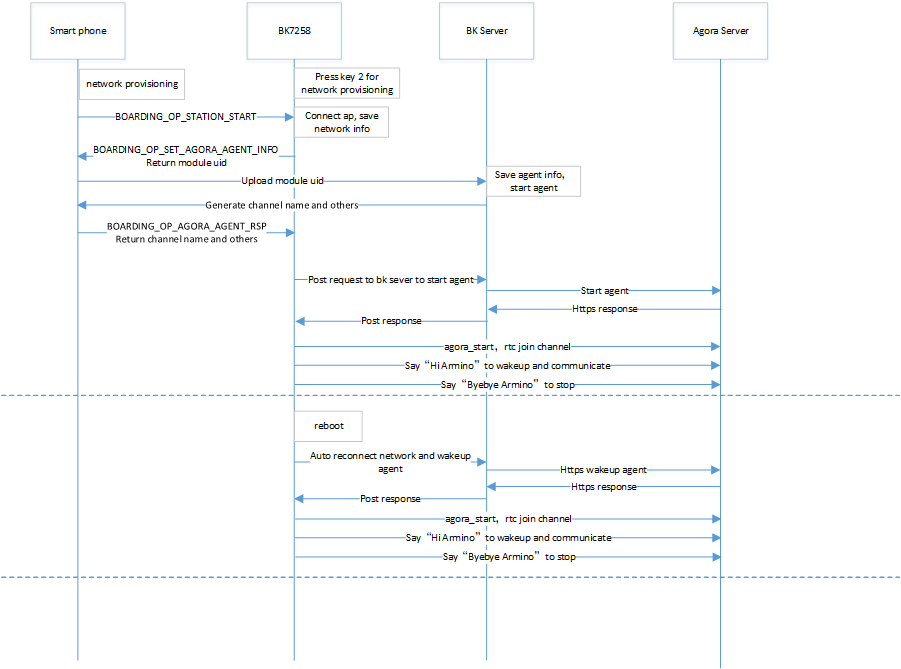
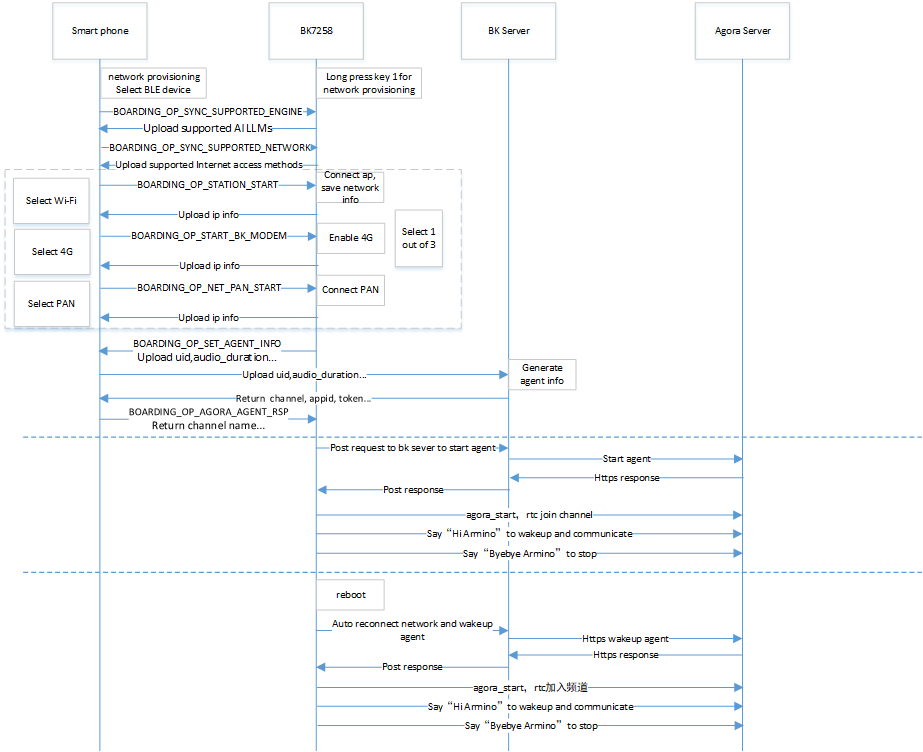
[CI] [61026]  <wifi> <fix> update network provisioning doc

Changed region(s): [[0.0, 0.0299, 1.0, 0.9865], [0.4972, 0.0299, 0.5905, 0.0897]]

diff --git a/docs/bk7258/en/projects/beken_genie/index.rst b/docs/bk7258/en/projects/beken_genie/index.rst
@@ -66,6 +66,12 @@ There are three button on the lower right side of the board, corresponding to th
         - 1.power on: Long press(>= 3 seconds) the button ``S2`` to power on.
         - 2.power off: When the system is in the powered - on state, long press(>= 3 seconds) the button ``S2`` to power off.
 
+    LLMs Switch
+        - 1.Fisrt time boot and wakeup, default use Large Language Model
+        - 2.click the button ``S2`` to switch to Image Recognition Large Model
+        - 3.click the button ``S2`` again to switch to Large Language Model
+        - 4.Loop operation between step 2 and step 3
+
     Network Provisioning
         - 1.Network Provisioning: When the system is in the powered - on state, long press(>= 3 seconds) the button ``S1`` to enter the state of waiting for network configuration.
 
@@ -337,12 +343,12 @@ and special reminders are signaled by alternating red and green light blinking. 
     +----------------------------------------+----------------+---------------+----------------+
 
 
-2.5 BLE Netowkr Provisioning and Agent Policy Customization Guide
+2.5 BLE Network Provisioning and Agent Policy Customization Guide
 ,,,,,,,,,,,,,,,,,,,,,,,,,,,,,,,,,,,,,,,,,,,,,,,,,,,,,,,,,,,,,,,,,,,
 
- The BLE Netowkr Provisioning and Agent-Startup code are mainly distributed in the directory:"projects/common_components/bk_boarding_service" and "projects/common_components/bk_smart_config". Customers can refer to the following instructions to customize their own solutions.
+ The BLE Network Provisioning and Agent-Startup code are mainly distributed in the directory:"projects/common_components/bk_boarding_service" and "projects/common_components/bk_smart_config". Customers can refer to the following instructions to customize their own solutions.
 
-1.bk_sconf_prepare_for_smart_config: Entering BLE Netowkr Provisioning mode
+1.bk_sconf_prepare_for_smart_config: Entering BLE Network Provisioning mode
 
 .. code::
 
@@ -353,7 +359,7 @@ and special reminders are signaled by alternating red and green light blinking. 
     #if CONFIG_STA_AUTO_RECONNECT
         first_time_for_network_provisioning = true;
     #endif
-        app_event_send_msg(APP_EVT_NETWORK_PROVISIONING, 0);//Enter Netowkr Provisioning – indicated by alternating red and green lights.
+        app_event_send_msg(APP_EVT_NETWORK_PROVISIONING, 0);//Enter Network Provisioning – indicated by alternating red and green lights.
         network_reconnect_stop_timeout_check();             //Disable reconnect timeout check
         bk_sconf_trans_stop();                              //Close Rtc on device and Multimedia Services
         bk_wifi_sta_stop();                                 //Stop wifi
@@ -375,7 +381,7 @@ and special reminders are signaled by alternating red and green light blinking. 
 
         if (!ate_is_enabled())
         {
-            bk_genie_boarding_init();                       //BLE Netowkr Provisioning init
+            bk_genie_boarding_init();                       //BLE Network Provisioning init
             wifi_boarding_adv_start();                      //BLE broadcasting enabled
         }
         ......

diff --git a/docs/bk7258/en/projects/ai_dashboard/index.rst b/docs/bk7258/en/projects/ai_dashboard/index.rst
@@ -7,7 +7,7 @@ AI Dashboard
 1. Overview
 ---------------------------------
 
-This project is based on the beken_genie project and inplements a single-screen display project. The functions included in this project are the same as those of the beken_genie project. The difference is that the beken_genie project is a dual-screen display, while this project is a single-screen display. This project uses a 360X360 resolution QSPI LCD, and the IC model is ST77916.
+This project is based on the beken_genie project and implements a single-screen display project. The functions included in this project are the same as those of the beken_genie project. The difference is that the beken_genie project is a dual-screen display, while this project is a single-screen display. This project uses a 360X360 resolution QSPI LCD, and the IC model is ST77916.
 
 For detailed instructions and introductions, please refre to `Beken Genie AI Project <../../projects/beken_genie/index.html>`_
 

diff --git a/docs/bk7258/zh_CN/projects/beken_genie/index.rst b/docs/bk7258/zh_CN/projects/beken_genie/index.rst
@@ -66,6 +66,12 @@ Beken Genie AI
         - 1.开机：长按(>=3秒) ``S2`` 开机
         - 2.关机：当系统处于开机状态时，长按(>=3秒) ``S2`` 关机
 
+    多模态切换
+        - 1.当系统首次上电，默认使用大语言模型
+        - 2.当系统处于唤醒状态，单击 ``S2`` 切换成图像识别大模型
+        - 3.当系统处于唤醒状态，再次单击 ``S2`` 切换成大语言模型
+        - 4.系统没有下电并处于唤醒状态，重复单击 ``S2`` ，重复步骤2和3
+
     配网
         - 1.配网：当系统处于开机状态时，长按(>=3秒) ``S1`` 进入等待配网状态
 
